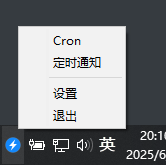
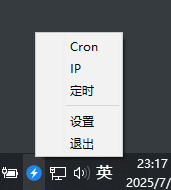
feat: ip查询

Changed region(s): [[0.0, 0.1515, 1.0, 1.0], [0.3012, 0.2121, 0.5723, 0.2727]]

diff --git a/src/ip.cpp b/src/ip.cpp
@@ -23,18 +23,55 @@ ip_tool::~ip_tool()
 }
 
 
-void ip_tool::handleUpdateSignal(const QJsonObject value) {
+void ip_tool::handleUpdateSignal(const QString code, const QJsonObject value) {
 
 	qDebug() << "Parsed JSON:" << value;
 
+	this->ui.pushButton->setText("查询");
+	this->ui.pushButton->setEnabled(true);
+	
+	this->ui.textEdit->clear();
+	this->ui.logEdit->clear();
+
+	QString status = value.value("status").toString();
+
+	if (code == "200" && status == "success") {
+		QString ip = value.value("query").toString();
+		QString continent = value.value("continent").toString();
+		QString country = value.value("country").toString();
+		QString isp = value.value("isp").toString();
+		QString region = value.value("regionName").toString();
+		QString city = value.value("city").toString();
+		bool proxy = value.value("proxy").toBool();
+		double lat = value.value("lat").toDouble();
+		double lon = value.value("lon").toDouble();
+
+		QString address = QString("%1 %2 %3 %4").arg(continent, country, region, city);
+		QString locationInfo = QString("IP地址: %1\n运营商: %2\n地址: %3\n经纬度: %4, %5\n代理: %6")
+			.arg(ip)
+			.arg(isp)
+			.arg(address)
+			.arg(lon, 0, 'f', 4)
+			.arg(lat, 0, 'f', 4)
+			.arg(proxy ? "是" : "否");
+
+		this->ui.textEdit->insertPlainText(locationInfo);
+		this->ui.textEdit->insertPlainText("\n");
+
+	}
+	
+	this->ui.logEdit->insertPlainText("状态码: " + code);
+	this->ui.logEdit->insertPlainText("\n");
 	QJsonDocument doc(value);
 	QString jsonStr = doc.toJson(QJsonDocument::Indented);
-	this->ui.textEdit->clear();
-	this->ui.textEdit->insertPlainText(jsonStr);
+	this->ui.logEdit->insertPlainText(jsonStr);
 }
 
 
 void ip_tool::sendRequest(const QString& ip) {
+
+	this->ui.pushButton->setText("查询中");
+	this->ui.pushButton->setEnabled(false);
 
 	QUrl url(QString("https://pro.ip-api.com/json/%1?fields=66842623&key=ipapiq9SFY1Ic4&lang=zh-CN").arg(ip));
 	QNetworkRequest request(url);
@@ -47,6 +84,7 @@ void ip_tool::sendRequest(const QString& ip) {
 	QNetworkReply* reply = manager->get(request);
 
 	QObject::connect(reply, &QNetworkReply::finished, [=]() {
+		QVariant statusCode = reply->attribute(QNetworkRequest::HttpStatusCodeAttribute);
 		if (reply->error() == QNetworkReply::NoError) {
 			QByteArray responseData = reply->readAll();
 			qDebug() << "Raw response:" << responseData;
@@ -55,8 +93,7 @@ void ip_tool::sendRequest(const QString& ip) {
 			QJsonDocument jsonDoc = QJsonDocument::fromJson(responseData, &parseError);
 			if (parseError.error == QJsonParseError::NoError && jsonDoc.isObject()) {
 				QJsonObject jsonObj = jsonDoc.object();
-				qDebug() << "Parsed JSON:";
-				emit updateSignal(jsonObj);
+				emit updateSignal(statusCode.toString(), jsonObj);
 			}
 			else {
 				qDebug() << "JSON 解析失败:" << parseError.errorString();
@@ -64,6 +101,7 @@ void ip_tool::sendRequest(const QString& ip) {
 		}
 		else {
 			qDebug() << "请求失败:" << reply->errorString();
+			emit updateSignal("请求失败", QJsonObject());
 		}
 
 		reply->deleteLater();

diff --git a/src/ip.h b/src/ip.h
@@ -13,16 +13,14 @@ public:
     ~ip_tool();
     void showWindow();
 
-    void runInThread(const QString& crontext);
-
     void query();
 
     void sendRequest(const QString& ip);
 signals:
-    void updateSignal(const QJsonObject value);
+    void updateSignal(const QString code, const QJsonObject value);
 
 public slots:
-    void handleUpdateSignal(const QJsonObject value);
+    void handleUpdateSignal(const QString code, const QJsonObject value);
 
 private:
     Ui::ipClass ui;

diff --git a/README.md b/README.md
@@ -10,3 +10,7 @@ Cron
 
 
 ![cron](doc/cron.png)
+
+IP查询
+
+![cron](doc/ip.png)
